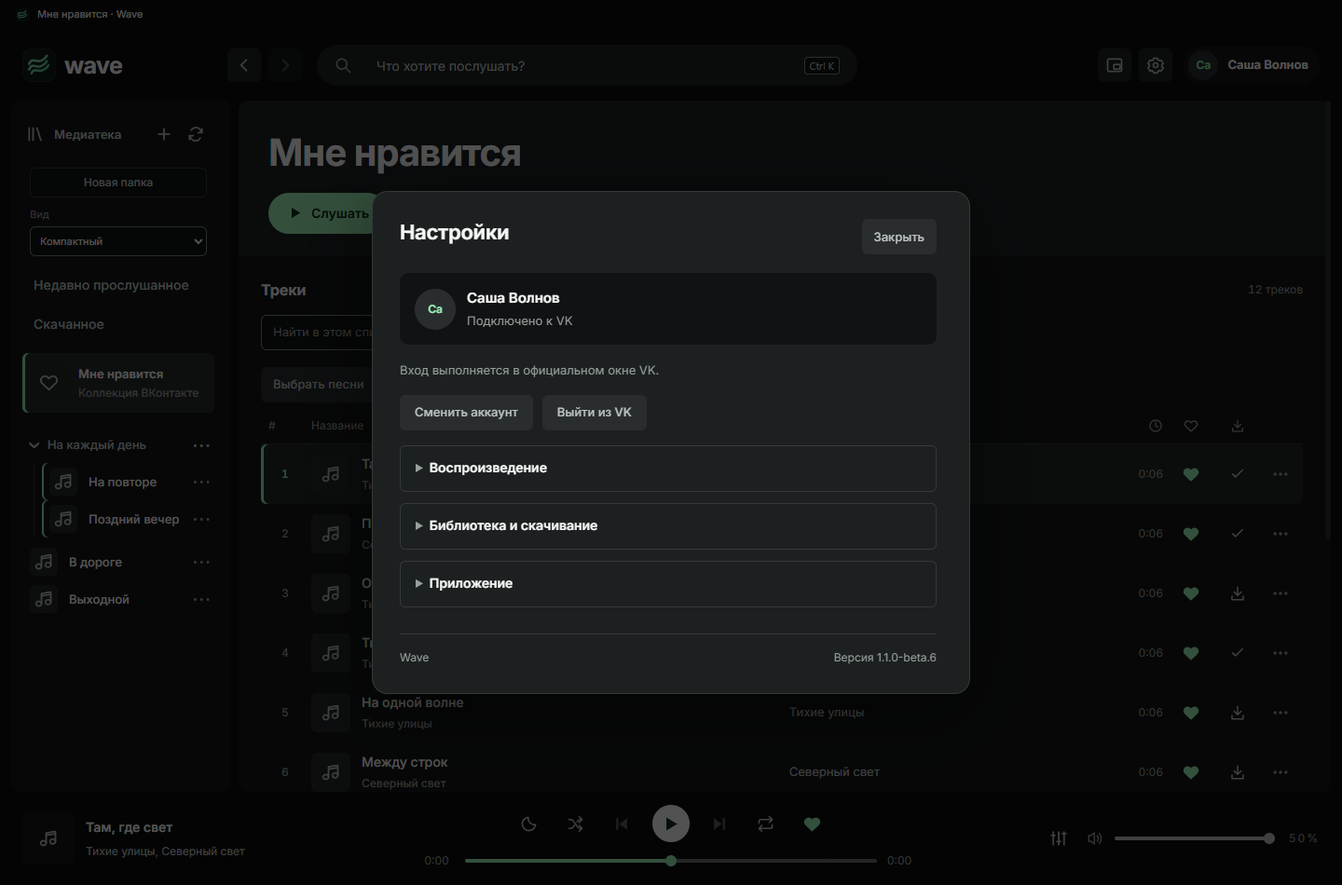
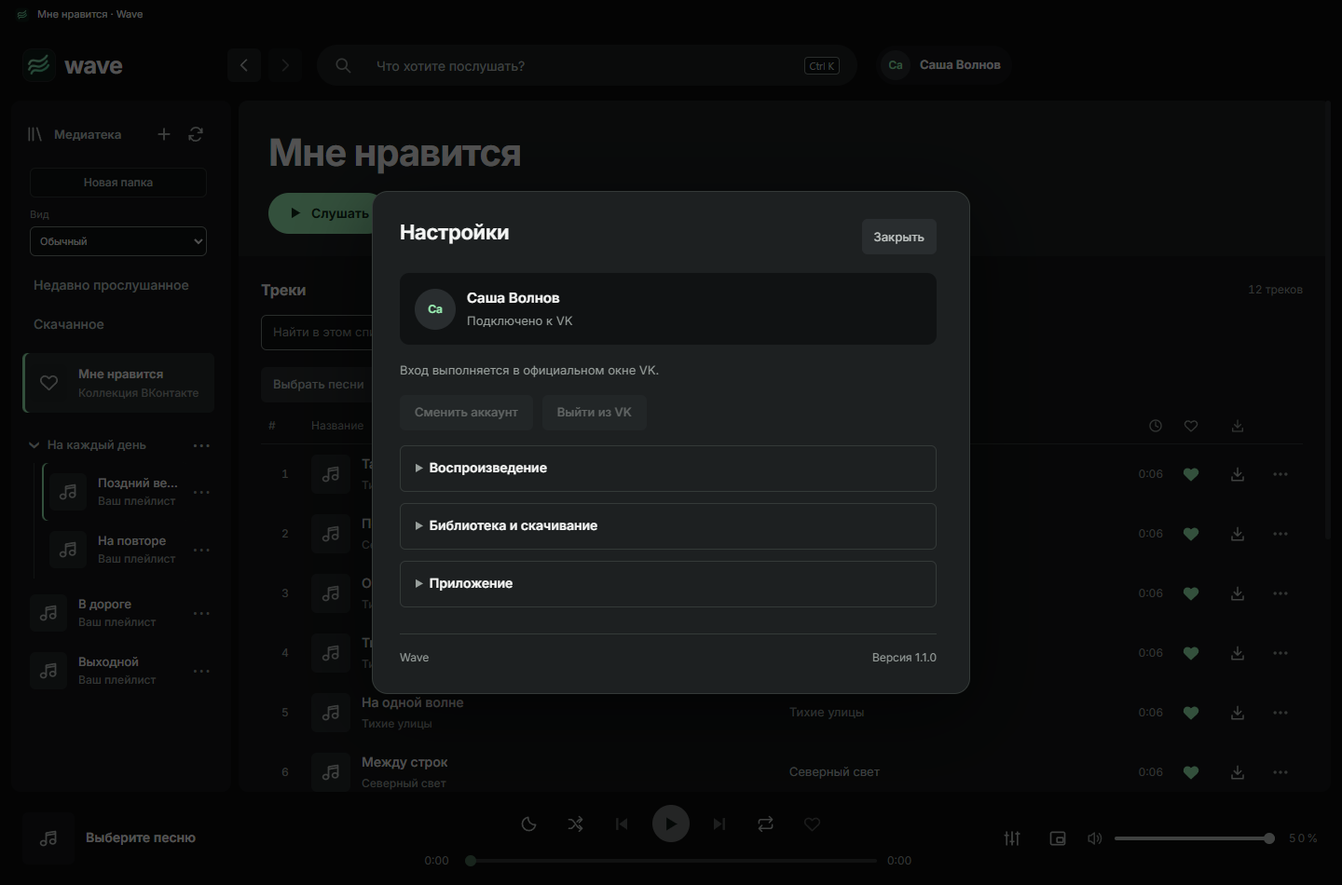
Finalize Stable toolbar and write cumulative user release notes

diff --git a/src/renderer/account-updates.js b/src/renderer/account-updates.js
@@ -1,15 +1,15 @@
 'use strict';
-(()=>{const settings=document.createElement('button');settings.className='icon';settings.id='settings';settings.textContent='⚙';window.WaveIcons?.set(settings,'settings');settings.title='Аккаунт и обновления';settings.setAttribute('aria-label',settings.title);$('login').before(settings);
+(()=>{const settings=document.createElement('button');settings.className='icon hidden';settings.id='settings';settings.textContent='⚙';window.WaveIcons?.set(settings,'settings');settings.title='Аккаунт и обновления';settings.setAttribute('aria-label',settings.title);$('login').before(settings);
  const overlay=document.createElement('dialog');overlay.className='modal-overlay hidden';overlay.id='settings-dialog';overlay.setAttribute('role','dialog');overlay.setAttribute('aria-modal','true');overlay.setAttribute('aria-labelledby','settings-title');
  overlay.innerHTML='<section class="modal-card"><div class="section-head"><h2 id="settings-title">Настройки</h2><button class="secondary" id="settings-close">Закрыть</button></div><section class="account-settings"><p class="muted">Вход выполняется в официальном окне VK.</p><div class="settings-actions"><button class="secondary" id="account-switch">Сменить аккаунт</button><button class="secondary" id="account-logout">Выйти из VK</button></div></section><section class="update-settings"><h3>Обновления</h3><p class="muted" id="update-status" aria-live="polite"></p><progress id="update-progress" class="hidden" max="1" value="0" aria-label="Загрузка обновления"></progress><p id="update-recovery" class="muted"></p><div class="settings-actions"><button class="secondary" id="update-check">Проверить новые версии</button><button class="primary hidden" id="update-download">Скачать обновление</button><button class="secondary hidden" id="update-cancel">Отменить загрузку</button><button class="secondary" id="update-choose">Выбрать файл обновления</button><button class="primary hidden" id="update-install">Установить</button><button class="secondary hidden" id="update-rollback">Откатить</button></div><p class="muted">Вход и коллекция сохраняются при обновлении. Устанавливаются только пакеты с проверенной подписью Wave.</p></section></section>';
- document.body.append(overlay);const recovery=document.createElement('button');recovery.className='secondary hidden';recovery.id='recovery-open';recovery.textContent='Восстановление';recovery.title='Предыдущий сеанс завершился некорректно';settings.before(recovery);let busy=false,installed=false;
+ document.body.append(overlay);let busy=false,installed=false;
  const text=s=>{$('update-status').textContent=s;};
  const onlineUI=value=>{const phase=value?.phase||'idle',r=value?.release,loading=['checking','downloading','verifying'].includes(phase);$('update-check').disabled=busy||loading;$('update-download').classList.toggle('hidden',!r||phase!=='available');$('update-download').disabled=busy||!installed;$('update-cancel').classList.toggle('hidden',!['checking','downloading'].includes(phase));$('update-progress').classList.toggle('hidden',!['downloading','verifying'].includes(phase));$('update-progress').value=value?.total?value.received/value.total:0;if(phase==='checking')text('Проверяем GitHub…');else if(phase==='available')text('Доступна '+r.name+' · '+Math.ceil(r.size/1048576)+' МиБ');else if(phase==='current')text('Установлена актуальная версия Wave.');else if(phase==='downloading')text('Загружаем: '+Math.round((value.received/(value.total||1))*100)+'%');else if(phase==='verifying')text('Проверяем подпись пакета…');else if(phase==='ready'){text('Обновление проверено и готово к установке.');$('update-install').classList.remove('hidden');}else if(['error','cancelled'].includes(phase))text(value.error||'Не удалось проверить обновление');};
- const updateUI=s=>{installed=s.installed;if($('settings-version'))setText($('settings-version'),'Версия '+s.version);text((s.installed?'Wave установлена':'Запуск из исходников. Для обновлений установите Wave.')+(s.staged?' · готова '+s.staged:'')+(s.lastInstall?.stage==='failed'?' · предыдущая установка не завершилась (код '+s.lastInstall.code+'). Выберите файл снова.':''));$('update-choose').disabled=!s.installed||busy;$('update-install').classList.toggle('hidden',!s.staged);$('update-install').disabled=busy;$('update-rollback').classList.toggle('hidden',!s.rollback);$('update-rollback').textContent=s.rollback?'Откатить на '+s.rollback:'Откатить';$('update-rollback').disabled=busy;recovery.classList.toggle('hidden',!s.unclean);setText($('update-recovery'),s.unclean?'Предыдущий сеанс завершился некорректно. Если ошибка появилась после обновления, можно выбрать сохранённую версию для отката.'+(!s.rollback?' Сохранённый установщик не найден — установите предыдущую версию вручную.':''):'');onlineUI(s.online);};
+ const updateUI=s=>{installed=s.installed;if($('settings-version'))setText($('settings-version'),'Версия '+s.version);text((s.installed?'Wave установлена':'Запуск из исходников. Для обновлений установите Wave.')+(s.staged?' · готова '+s.staged:'')+(s.lastInstall?.stage==='failed'?' · предыдущая установка не завершилась (код '+s.lastInstall.code+'). Выберите файл снова.':''));$('update-choose').disabled=!s.installed||busy;$('update-install').classList.toggle('hidden',!s.staged);$('update-install').disabled=busy;$('update-rollback').classList.toggle('hidden',!s.rollback);$('update-rollback').textContent=s.rollback?'Откатить на '+s.rollback:'Откатить';$('update-rollback').disabled=busy;setText($('update-recovery'),s.unclean?'Предыдущий сеанс завершился некорректно. Если ошибка появилась после обновления, можно выбрать сохранённую версию для отката.'+(!s.rollback?' Сохранённый установщик не найден — установите предыдущую версию вручную.':''):'');onlineUI(s.online);};
  const refresh=async()=>{try{const s=await api.updates('status');if(s?.ok===false)throw Error(s.error.message);updateUI(s);}catch(e){text(e.message);}};
  const accountUI=()=>{$('account-switch').disabled=busy||!has('switchAccount');$('account-logout').disabled=busy||!has('logout');};
  if(has('onUpdateProgress'))api.onUpdateProgress(onlineUI);$('update-cancel').onclick=()=>api.updates('cancel').catch(e=>text(e.message));for(const method of ['check','download'])$('update-'+method).onclick=async()=>{if(busy)return;busy=true;$('update-check').disabled=true;$('update-download').disabled=true;try{const r=await api.updates(method);if(r?.ok===false)throw Error(r.error.message);busy=false;updateUI(r);}catch(e){text(e.message);}finally{busy=false;$('update-check').disabled=false;}};
- settings.onclick=()=>{overlay.classList.remove('hidden');accountUI();refresh();};recovery.onclick=()=>settings.click();refresh();const close=()=>overlay.classList.add('hidden');$('settings-close').onclick=close;document.addEventListener('keydown',e=>{if(e.key==='Escape'&&document.activeElement.closest?.('dialog')===overlay)close();});
+ settings.onclick=()=>{overlay.classList.remove('hidden');accountUI();refresh();};refresh();const close=()=>overlay.classList.add('hidden');$('settings-close').onclick=close;document.addEventListener('keydown',e=>{if(e.key==='Escape'&&document.activeElement.closest?.('dialog')===overlay)close();});
  for(const [id,method] of [['account-logout','logout'],['account-switch','switchAccount']])$(id).onclick=async()=>{if(busy)return;busy=true;accountUI();close();message(method==='logout'?'Выходим из VK…':'Войдите в другой аккаунт в окне VK.');try{await call(method);await status();}catch(e){fail(e);}finally{busy=false;accountUI();}};
  for(const method of ['choose','install','rollback'])$('update-'+method).onclick=async()=>{if(busy)return;busy=true;text(method==='choose'?'Проверяем пакет обновления…':'Подготавливаем установку…');for(const id of ['choose','install','rollback'])$('update-'+id).disabled=true;try{const s=await api.updates(method);if(s?.ok===false)throw Error(s.error.message);if(s.restarting)text('Устанавливаем Wave. Приложение закроется…');else updateUI(s);}catch(e){text(e.message);}finally{busy=false;for(const id of ['choose','install','rollback'])$('update-'+id).disabled=false;$('update-choose').disabled=!installed;}};
 })();

diff --git a/src/renderer/windows-integration.js b/src/renderer/windows-integration.js
@@ -8,7 +8,7 @@
  const updateMedia=()=>{if(!media)return;try{const t=state.current,signature=JSON.stringify([t?.id,t?.title,t?.artist,t?.cover]);if(signature!==lastSignature){lastSignature=signature;media.metadata=t?new MediaMetadata({title:t.title,artist:t.artist,album:'Wave · VK',artwork:t.cover?[{src:t.cover}]:[]}):null;}const playback=!t?'none':state.playing?'playing':'paused';if(media.playbackState!==playback)media.playbackState=playback;if(state.duration>0)media.setPositionState({duration:state.duration,playbackRate:1,position:Math.min(state.duration,Math.max(0,Number($('seek').value)||0))});else media.setPositionState();}catch{}};
  function publish(force=false){updateMedia();if(restoring)return;const now=Date.now();if(!force&&now-lastSent<180)return;lastSent=now;const data={currentId:state.current?.id||null,playing:state.playing,busy:state.busy,position:state.busy&&Number.isFinite(state.restoredPosition)?state.restoredPosition:Math.max(0,Number($('seek').value)||0),duration:state.duration,volume:state.volume,canNext:!!state.current&&(state.online||state.current?.local)&&hasNextTrack(),canPrevious:(state.online||state.current?.local)&&!!previousTrack(),shuffle:state.shuffle,repeat:state.repeat,liked:state.current?.owned===true,canLike:!!state.current&&state.online&&!state.collectionBusy&&has('mutate'),likeBusy:state.collectionBusy===true||!!window.WaveLikes?.pending(state.current?.id)};if(lastLoop!==state.loop||lastCurrent!==state.current?.id){data.order=state.loop.map(t=>({id:t.id,contextOrder:Number.isInteger(t.contextOrder)?t.contextOrder:0}));lastLoop=state.loop;lastCurrent=state.current?.id;}api.desktopState(data);}
  async function restore(){if(restoreDone||restoring||!state.ready||state.current)return;restoring=true;try{const r=await api.desktop('restore');requireResult(r);restoreDone=true;if(!r)return;if(state.current)return;state.current=r.selected;state.loop=r.loop;state.current.contextOrder=state.loop.find(t=>t.id===r.selected.id)?.contextOrder??0;state.repeat=r.repeat;state.shuffle=r.shuffle;state.volume=r.volume;state.playContext=null;state.restoredPosition=r.position;state.position=r.position;state.playing=false;state.wasPlaying=false;state.duration=r.selected.duration;$('elapsed').textContent=format(r.position);$('duration').textContent=format(state.duration);$('seek').max=String(state.duration);$('seek').value=String(r.position);$('volume').value=String(r.volume);renderNow();trackList();if(state.nativePlayback)await call('volume',r.volume);message('Восстановлена последняя песня. Нажмите ▶, чтобы продолжить.');}catch(e){fail(e);}finally{restoring=false;publish(true);}}
- const button=document.createElement('button');button.id='mini-open';button.className='icon';button.textContent='▣';window.WaveIcons?.set(button,'mini');button.title='Мини-плеер';button.setAttribute('aria-label','Мини-плеер');$('settings').before(button);button.onclick=()=>sendAction('mini');
+ const button=document.createElement('button');button.id='mini-open';button.className='icon';button.textContent='▣';window.WaveIcons?.set(button,'mini');button.title='Мини-плеер';button.setAttribute('aria-label','Мини-плеер');document.querySelector('.player-right .volume-control').before(button);button.onclick=()=>sendAction('mini');
  const sleepButton=document.createElement('button');sleepButton.id='sleep-open';sleepButton.className='icon';sleepButton.textContent='☾';window.WaveIcons?.set(sleepButton,'moon');sleepButton.title='Таймер сна';sleepButton.setAttribute('aria-label','Таймер сна');$('shuffle').before(sleepButton);
  const overlay=document.createElement('dialog');overlay.id='sleep-dialog';overlay.className='modal-overlay hidden';overlay.setAttribute('role','dialog');overlay.setAttribute('aria-modal','true');overlay.setAttribute('aria-labelledby','sleep-title');overlay.innerHTML='<section class="modal-card"><div class="section-head"><h2 id="sleep-title">Таймер сна</h2><button class="secondary" id="sleep-close">Закрыть</button></div><p id="sleep-status" class="muted" aria-live="polite"></p><div class="settings-actions"><button class="secondary" data-sleep="15">15 мин</button><button class="secondary" data-sleep="30">30 мин</button><button class="secondary" data-sleep="60">60 мин</button><button class="secondary" data-sleep="end">После текущего трека</button><button class="secondary" data-sleep="off">Выключить</button></div><label>Своё время, минут <input id="sleep-minutes" type="number" min="1" max="180" value="45"></label><button class="primary" id="sleep-custom">Включить</button><p class="muted">Таймер останавливает музыку. Компьютер остаётся включённым.</p></section>';document.body.append(overlay);const sleepText=()=>{const s=desktopState?.sleep;if(!s)return;setText($('sleep-status'),s.mode==='end'?'Остановится после текущего трека':s.mode==='time'?'Осталось '+Math.max(0,Math.ceil((s.deadline-Date.now())/60000))+' мин':'Таймер выключен');sleepButton.classList.toggle('active',s.mode!=='off');sleepButton.setAttribute('aria-pressed',String(s.mode!=='off'));sleepButton.title=s.mode==='end'?'Таймер: до конца трека':s.mode==='time'?'Таймер: '+Math.max(0,Math.ceil((s.deadline-Date.now())/60000))+' мин':'Таймер сна';sleepButton.setAttribute('aria-label',sleepButton.title);};sleepButton.onclick=()=>{overlay.classList.remove('hidden');sleepText();};$('sleep-close').onclick=()=>overlay.classList.add('hidden');document.addEventListener('keydown',e=>{if(e.key==='Escape')overlay.classList.add('hidden');});
  const setSleep=async value=>{try{if(value==='end'&&!state.current)throw Error('Сначала выберите песню');const r=requireResult(await api.desktop('sleep',value));desktopState=r;sleepText();}catch(e){fail(e);}};for(const b of overlay.querySelectorAll('[data-sleep]'))b.onclick=()=>setSleep(['off','end'].includes(b.dataset.sleep)?b.dataset.sleep:Number(b.dataset.sleep));$('sleep-custom').onclick=()=>setSleep(Number($('sleep-minutes').value));

diff --git a/src/renderer/account-profile.js b/src/renderer/account-profile.js
@@ -1,7 +1,7 @@
 'use strict';
-(()=>{let profile=null,pending=false,epoch=0,lastSession=null,lastRender=null;const button=$('login'),login=button.onclick;button.onclick=()=>{if(state.online||profile)$('settings').click();else login();};const card=document.createElement('section');card.className='account-card';card.innerHTML='<div id="settings-avatar" class="account-avatar" aria-hidden="true"></div><div><strong id="account-name">Аккаунт VK</strong><p id="account-status" class="muted"></p><button id="account-reconnect" class="secondary hidden">Войти через VK</button></div>';$('settings-dialog').querySelector('.section-head').after(card);$('account-reconnect').onclick=async()=>{$('settings-close').click();try{await login();}finally{render();}};
+(()=>{let profile=null,pending=false,epoch=0,lastSession=null,lastRender=null;const button=$('login'),login=button.onclick;button.onclick=()=>$('settings').click();const card=document.createElement('section');card.className='account-card';card.innerHTML='<div id="settings-avatar" class="account-avatar" aria-hidden="true"></div><div><strong id="account-name">Аккаунт VK</strong><p id="account-status" class="muted"></p><button id="account-reconnect" class="secondary hidden">Войти через VK</button></div>';$('settings-dialog').querySelector('.section-head').after(card);$('account-reconnect').onclick=async()=>{$('settings-close').click();try{await login();}finally{render();}};
  const avatar=(node)=>{node.replaceChildren();if(profile?.avatar){const img=document.createElement('img');img.src=profile.avatar;img.alt='';img.referrerPolicy='no-referrer';img.onerror=()=>{img.remove();node.textContent=(profile?.firstName||'VK').slice(0,1);};node.append(img);}else node.textContent=(profile?.firstName||'VK').slice(0,2);};
- const render=()=>{const signature=JSON.stringify([profile,state.online,lastSession?.reason,lastSession?.state,has('login')]);if(signature===lastRender)return;lastRender=signature;const connected=state.online;button.classList.toggle('account-button',connected||!!profile);if(connected||profile){button.disabled=false;button.title=profile?.name||'Открыть настройки аккаунта';button.setAttribute('aria-label','Открыть настройки аккаунта'+(profile?.name?': '+profile.name:''));button.replaceChildren();const pic=document.createElement('span');pic.className='account-avatar';pic.setAttribute('aria-hidden','true');avatar(pic);const copy=document.createElement('span');copy.className='account-label';const name=document.createElement('span');name.textContent=profile?.name||'Аккаунт VK';copy.append(name);const status=document.createElement('small');status.className='account-connection';status.textContent=connected?'VK подключён':'Нет подключения';copy.append(status);button.append(pic,copy);}else{button.classList.remove('account-button');button.disabled=!has('login');button.textContent='Войти через VK';button.setAttribute('aria-label','Войти через VK');}avatar($('settings-avatar'));$('account-name').textContent=profile?.name||'Аккаунт VK';$('account-reconnect').classList.toggle('hidden',connected||!['auth'].includes(lastSession?.reason)&&lastSession?.state!=='signedOut');$('account-status').textContent=connected?'Подключено к VK':lastSession?.reason==='auth'?'Нужно войти в VK':profile?'Нет сети. Показаны сохранённые списки.':'Войдите в официальном окне VK.';};
+ const render=()=>{const signature=JSON.stringify([profile,state.online,lastSession?.reason,lastSession?.state,has('login')]);if(signature===lastRender)return;lastRender=signature;const connected=state.online;button.classList.toggle('account-button',connected||!!profile);if(connected||profile){button.disabled=false;button.title=profile?.name||'Открыть настройки аккаунта';button.setAttribute('aria-label','Открыть настройки аккаунта'+(profile?.name?': '+profile.name:''));button.replaceChildren();const pic=document.createElement('span');pic.className='account-avatar';pic.setAttribute('aria-hidden','true');avatar(pic);const copy=document.createElement('span');copy.className='account-label';const name=document.createElement('span');name.textContent=profile?.name||'Аккаунт VK';copy.append(name);const status=document.createElement('small');status.className='account-connection';status.textContent=connected?'VK подключён':'Нет подключения';copy.append(status);button.append(pic,copy);}else{button.classList.remove('account-button');button.disabled=false;button.textContent='Аккаунт';button.title='Аккаунт и настройки';button.setAttribute('aria-label','Открыть аккаунт и настройки');}avatar($('settings-avatar'));$('account-name').textContent=profile?.name||'Аккаунт VK';$('account-reconnect').classList.toggle('hidden',connected);$('account-reconnect').disabled=!has('login');$('account-status').textContent=connected?'Подключено к VK':lastSession?.reason==='auth'?'Нужно войти в VK':profile?'Нет сети. Показаны сохранённые списки.':'Войдите в официальном окне VK.';};
  async function session(s){lastSession=s;if(s.state==='signedOut'||s.accountChanged){profile=null;epoch++;}render();if(!state.online||profile||pending)return;const request=epoch;pending=true;try{const result=requireResult(await api.account());if(request===epoch){profile=result;render();}}catch{/* A missing avatar must not interrupt music. */}finally{pending=false;if(request!==epoch&&state.online&&!profile)session(lastSession);}}
  window.WaveAccount={session};api.status().then(s=>session(s)).catch(()=>{});
 })();

diff --git a/src/renderer/refinements.css b/src/renderer/refinements.css
@@ -37,6 +37,7 @@ body:not(.mini-window){grid-template-rows:32px 76px minmax(0,1fr) auto}.window-t
 .track.current .track-index{color:var(--text-accent)}
 .playlist-item.active,.personal-nav-button.active{background:var(--bg-selected);color:var(--text-primary)}
 .library-item:not(.active){background:transparent}
+@media(max-width:850px){.player-right{display:flex;grid-column:1/-1;justify-content:flex-end;gap:8px}.player-right .volume-control{min-width:0}.player-right input[type="range"]{width:clamp(64px,24vw,172px);min-width:48px}}
 .modal-card{box-shadow:0 0 0 1px var(--border-subtle),0 20px 80px #0008}
 .mini-window{background:var(--bg-surface)}
 .mini-window #art{background:var(--bg-cover);color:var(--text-secondary)}

diff --git a/releases/LATEST.md b/releases/LATEST.md
@@ -1,30 +1,61 @@
-# Wave 1.1.0
+# Wave 1.1 — Stable
 
-**Первый стабильный выпуск ветки 1.1.** Функциональная основа — RC 1; новые функции поверх кандидата не добавлялись.
+В Wave 1.1 появились история прослушивания, Главная с закреплениями и подборками VK, скачивание музыки и полноценный раздел для прослушивания без сети. За время Alpha, Beta и RC мы также переработали плееры, текст песни и оформление приложения.
 
-## Что входит в 1.1
+![Wave 1.1](https://raw.githubusercontent.com/arthurhoodwin/wave/v1.1.0/docs/images/library.png)
 
-- Главная с закреплениями и доступными подборками VK, недавно прослушанные песни и списки, папки и плотность медиатеки.
-- История после 0,5 секунды фактического воспроизведения; очистка, отключение и разделение аккаунтов.
-- Скачивание выбранных песен без обрезания до 100: сохраняется полный список до 5000 записей, рабочая очередь получает до 100 задач, остальные ждут.
-- Общая пауза, продолжение и отмена; восстановление очереди после перезапуска. Локальная библиотека с проверкой файлов, обложками и JSON-метаданными.
-- Офлайн-воспроизведение, переключение сохранённых песен и перемотка. В «Скачанном» нет выделения и массовой панели.
-- Синхронный текст с переходом по строке при наличии меток, мини-плеер, таймер, эквалайзер и сохранение позиции.
-- Графитовый интерфейс, мятные акценты по назначению и три группы настроек.
-- Подписанные обновления, проверка точной основы, восстановление прежних файлов и исправленное чтение ASAR внутри Electron.
+*На скриншоте — демонстрационные песни и аккаунт.*
 
-## Установка и обновление
+## Главная и медиатека
 
-- **Wave-Setup-1.1.0.exe** — первая установка или переход с любой старой версии.
-- **Wave-1.1.0.waveupdate** — полный подписанный пакет для совместимости с прежней Stable и другими загрузчиками. По размеру близок к EXE.
-- **Wave-1.1.0-from-1.1.0-rc.1.waveupdate** — маленький файловый пакет только для точной RC 1, **132 552 байта (около 133 КБ)**. При изменённой основе используйте EXE.
+- Закрепляйте любимые плейлисты и альбомы на Главной, чтобы быстро к ним возвращаться.
+- Здесь же доступны персональные подборки, плейлисты дня и новые релизы — если VK предоставляет их вашему аккаунту. Когда подборки недоступны, загрузку можно повторить.
+- Для перехода на Главную нажмите логотип Wave. Отдельная кнопка больше не занимает место.
+- Плейлисты можно раскладывать по локальным папкам и выбирать обычный или компактный вид медиатеки.
+- Недавно прослушанные песни и недавно открытые списки собраны в одном разделе, без повторов на Главной.
 
-Подпись пакетов — Ed25519, Windows FileVersion — 1.1.0.300. Authenticode-сертификата у EXE нет. Перед установкой профиль удалять не нужно.
+## Недавно прослушанное
 
-## Проверки и границы
+- Песня попадает в историю после первых 0,5 секунды прослушивания.
+- Можно вернуться к песне или недавно открытому плейлисту, очистить историю либо отключить её сохранение.
+- История и личная библиотека разделены между аккаунтами.
 
-300 Node.js-тестов и обязательный прогон обновления/отката настоящего ASAR внутри Electron. В изолированном renderer скачаны 150 из 150 демонстрационных песен, проверены восстановление очереди, отмена, масштаб и доступность. RC 1 успешно установлен и перезапущен на основном ПК, его файлы сверены со сборкой.
+## Скачивание и музыка без сети
 
-По решению владельца оставшиеся натурные проверки вынесены в последующую работу. Настоящие VK-сценарии на разных аккаунтах, маленькое обновление/откат на рабочем ПК и независимая Windows-машина не объявляются проверенными. [Полная матрица проверок](https://github.com/arthurhoodwin/wave/blob/main/docs/VALIDATION.md).
+- Скачивайте отдельные песни или выделяйте несколько в коллекции и плейлистах. Большие выделения больше не обрезаются после первой сотни; можно передать до 5000 песен с учётом свободного места в библиотеке.
+- Загрузки можно приостанавливать, продолжать и отменять по одной или все сразу. После перезапуска сохранённая очередь остаётся на паузе — нажмите «Продолжить все».
+- Выберите папку и лимит места в настройках. Уже сохранённые песни не скачиваются повторно.
+- Локальные копии, обложки и сведения о песнях доступны без сети. Работают пауза, перемотка и переключение между сохранёнными песнями.
+- В «Скачанном» теперь обычный список без выделения и массовой панели. Удаление локальной копии не удаляет песню из VK.
+- Прямые файлы могут продолжаться с места остановки, если это поддерживает источник. Часть потоковых записей после паузы загружается заново; не все варианты потоков поддерживаются.
 
-Поддерживаются конечные HLS AAC/MP3/TS/fMP4 и AES-128 identity. Live, byte-range, discontinuity и DRM не поддерживаются; после паузы HLS начинается заново. Полного атомарного восстановления при отключении питания посреди замены файлов нет — предусмотрен полный установщик. Встроенные теги и обновление обложек старых копий остаются последующими улучшениями.
+## Лайки и действия с песнями
+
+- Сердечко и скачивание вынесены в отдельные колонки: сразу видно, понравилась ли песня и есть ли локальная копия.
+- Лайк реагирует сразу, а его состояние согласуется между списком и плеерами. Исправлены ошибки повторного добавления и лайка из нижней панели.
+- Дополнительные действия открываются компактным меню возле песни. Колонки и значки выровнены, между кнопками больше пространства.
+
+## Плеер и текст песни
+
+- Развёрнутый плеер лучше использует ширину окна: обложка и сведения о песне слева, текст справа, шкала воспроизведения внизу.
+- Если у текста есть временные метки, строки подсвечиваются по ходу песни. Нажмите строку, чтобы перейти к нужному моменту.
+- Можно изменить размер текста, отключить подсветку и читать вручную. Источник указан после текста.
+- Убран лишний переключатель «Плеер/Текст»; полноэкранный режим сохранён. Боковая кнопка «Назад» позволяет выйти из просмотра песни.
+- Таймер сна доступен в основном и мини-плеере: на выбранное время или до конца текущей песни.
+- Кнопка мини-плеера теперь находится в нижней панели рядом с громкостью.
+
+## Более спокойный интерфейс
+
+- Графитовые фоны и нейтральные подписи вместо преобладающего зелёного. Мятный акцент остался у важных действий и состояний.
+- Системные шапки компактнее, убраны повторные счётчики, лишние подписи и слоганы. Активная строка текста выделяется без большой зелёной плашки.
+- Настройки и восстановление открываются через кнопку профиля. Отдельных кнопок в верхней панели больше нет; вход в VK также доступен из «Аккаунта».
+- Настройки собраны в три раздела: «Воспроизведение», «Библиотека и скачивание», «Приложение». Версия приложения находится в конце.
+- Подправлены масштабирование, контраст, клавиатурный фокус и поведение анимаций при уменьшенном движении.
+
+## Обновление до 1.1
+
+- **Первая установка или любая старая версия:** скачайте `Wave-Setup-1.1.0.exe` и установите поверх Wave. Профиль удалять не нужно.
+- **Из настроек старой версии:** используйте полный пакет `Wave-1.1.0.waveupdate`.
+- **С точной RC 1:** выберите маленький пакет `Wave-1.1.0-from-1.1.0-rc.1.waveupdate` в настройках → «Приложение» → «Выбрать файл обновления».
+
+История, настройки и скачанные песни сохраняются при обычном обновлении. Если новая версия работает неправильно, в разделе «Приложение» можно выбрать доступный откат.

diff --git a/docs/VALIDATION.md b/docs/VALIDATION.md
@@ -6,9 +6,9 @@
 
 Владелец решил выпустить 1.1.0 на функциональной основе RC 1, оставив дополнительные натурные проверки на будущее. Сценарии настоящего VK, маленького пакета на рабочей установке и независимого Windows-ПК не объявляются выполненными. Ниже сохранены исходные результаты, включая ограничения стенда.
 
-Stable изменяет номера/канал выпуска и оформление документации. Для совместимости с прежней 1.0.9.9.1 канонический Wave-1.1.0.waveupdate содержит полный установщик; отдельный файловый пакет строится от точной RC 1. Проверки сборки, подписи и CI выполняются до публикации. Локальная установка будет отдельно зафиксирована по факту.
+Stable изменяет номера/канал выпуска, оформление документации и две согласованные детали интерфейса: настройки/восстановление доступны через профиль, мини-плеер перенесён к громкости. Для совместимости с прежней 1.0.9.9.1 канонический Wave-1.1.0.waveupdate содержит полный установщик; отдельный файловый пакет строится от точной RC 1. Проверки сборки, подписи и CI выполняются до публикации. Локальная установка будет отдельно зафиксирована по факту.
 
-Повторно прошли 300 Node.js-тестов и Electron ASAR-гейт. Все 103 упакованных исходных файла совпали с рабочим деревом. На изолированной копии подписанный патч RC 1 → Stable (132 552 байта) применён и откачен: все 77 файлов совпадают с целевой и исходной сборками. Код загрузчика из тега 1.0.9.9.1 принял и проверил подпись полного пакета 1.1.0; запуск NSIS в этой проверке заменён callback. Это не установка на независимом ПК.
+Повторно прошли 300 Node.js-тестов и Electron ASAR-гейт. Все 103 упакованных исходных файла совпали с рабочим деревом. На изолированной копии подписанный патч RC 1 → Stable (215 335 байта) применён и откачен: все 77 файлов совпадают с целевой и исходной сборками. Код загрузчика из тега 1.0.9.9.1 принял и проверил подпись полного пакета 1.1.0; запуск NSIS в этой проверке заменён callback. Это не установка на независимом ПК.
 
 ## RC 1
 
@@ -101,3 +101,9 @@ Stable изменяет номера/канал выпуска и оформле
 ## Примечание к исправлению лайка
 
 Путь собственной удалённой копии проверен по коду и синтетическому сценарию. Назначение `audio.restore` описано в [документации VK.NET](https://vknet.github.io/vk/audio/restore/); это описание старой версии API, не доказательство ответа текущего VK. Поэтому исправление не объявляется натурно подтверждённым до ручного прогона владельцем.
+
+### Финальные панели Stable
+
+По последнему запросу владельца убраны отдельные настройки и восстановление из верхней панели. Доступ остаётся через профиль, включая состояние без входа: из него доступна кнопка входа в VK. Мини-плеер перенесён в player-right перед громкостью. При ширине до 850 px нижняя правая группа получает собственную строку, поэтому кнопка не пропадает при масштабе 200%.
+
+В скрытом демонстрационном renderer проверены отсутствие recovery-open, скрытая отдельная кнопка настроек, открытие диалога профилем и доступный вход без авторизации, размещение мини-плеера у громкости и его видимость при 1440/1100/320 px и 200%. Axe без нарушений. В CI выявлена медленная инициализация PowerShell в файловом стенде; ограниченный срок запуска помощника увеличен только для этих интеграционных случаев, ошибки spawnSync не принимаются за ожидаемый отказ. Сравнения файлов/отката сохранены.

diff --git a/README.md b/README.md
@@ -21,7 +21,7 @@
 
 1. Откройте [последний обычный выпуск](https://github.com/arthurhoodwin/wave/releases/latest).
 2. Скачайте файл **Wave-Setup-…exe** и запустите его. Исходники и файлы `.waveupdate` для первой установки не нужны.
-3. Откройте Wave, нажмите **«Войти через VK»** и войдите в своём аккаунте в открывшемся окне VK.
+3. Откройте Wave, откройте **«Аккаунт» → «Войти через VK»** и войдите в своём аккаунте в открывшемся окне VK.
 4. Выберите песню из медиатеки или найдите её через поиск.
 
 Нужны **Windows x64**, подключение к интернету и аккаунт VK. Установщик пока без цифровой подписи Windows.
@@ -39,6 +39,7 @@
 - Нажмите песню — она начнёт играть. Следующие песни берутся из открытого списка.
 - Нажмите название или обложку в нижней панели — откроется плеер с текстом.
 - Сердечко в строке меняет «Мне нравится», а кнопка скачивания сохраняет локальную копию. Удаление этой копии не удаляет песню из VK.
+- Настройки и восстановление открываются кнопкой профиля. Мини-плеер — кнопкой рядом с громкостью в нижней панели.
 - Кнопка с луной открывает таймер сна. Она находится в плеере и доступна также в мини-плеере.
 - **Ctrl+K** переводит в поиск, **F1** открывает справку по клавишам. Нижняя боковая кнопка мыши — назад, верхняя — вперёд.
 

diff --git a/docs/CHANGELOG.md b/docs/CHANGELOG.md
@@ -2,7 +2,7 @@
 
 ## 1.1.0 — 25 октября 2026
 
-Стабильная ветка 1.1 на функциональной основе RC 1: история/закрепления, скачивание большого выделения и офлайн-библиотека, обновлённый дизайн и настройки. Публикация как GitHub Latest. Для старого стабильного загрузчика — полный подписанный пакет, для точной RC 1 — отдельный небольшой патч. Дополнительные натурные проверки перенесены в последующую работу по решению владельца; их статус не меняется на «пройдено».
+Стабильная ветка 1.1 на основе RC 1; финальная правка панелей: настройки/восстановление через профиль, мини-плеер рядом с громкостью. Основной состав: история/закрепления, скачивание большого выделения и офлайн-библиотека, обновлённый дизайн и настройки. Публикация как GitHub Latest. Для старого стабильного загрузчика — полный подписанный пакет, для точной RC 1 — отдельный небольшой патч. Дополнительные натурные проверки перенесены в последующую работу по решению владельца; их статус не меняется на «пройдено».
 
 ## 1.1.0-rc.1 — 24 октября 2026
 
